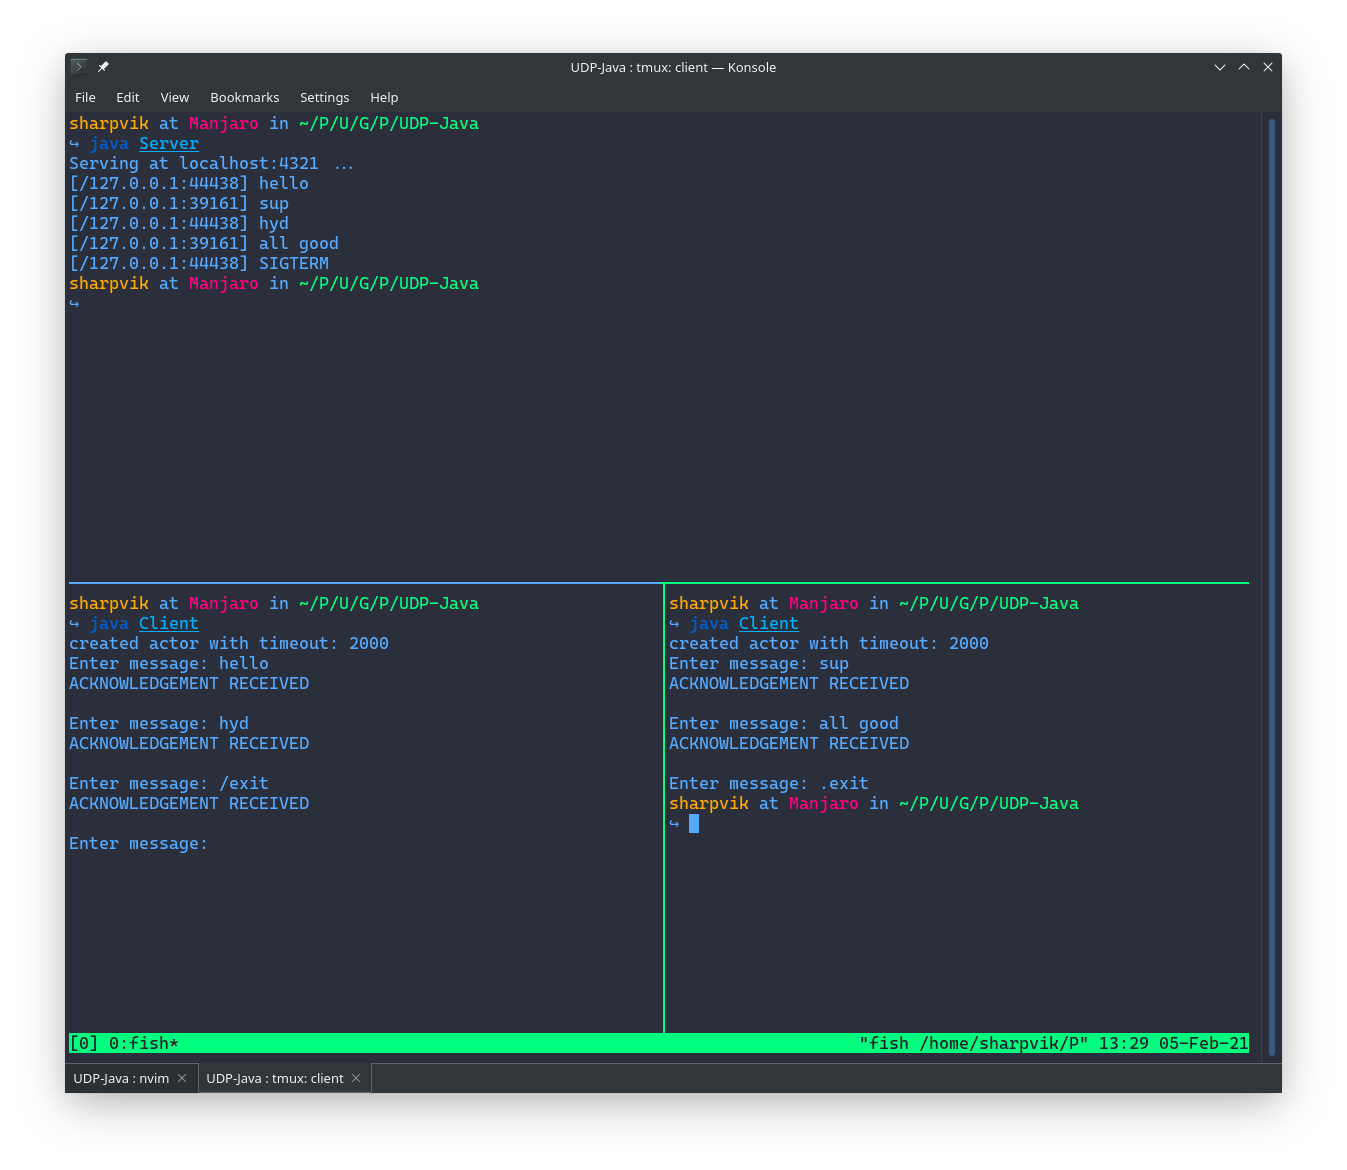
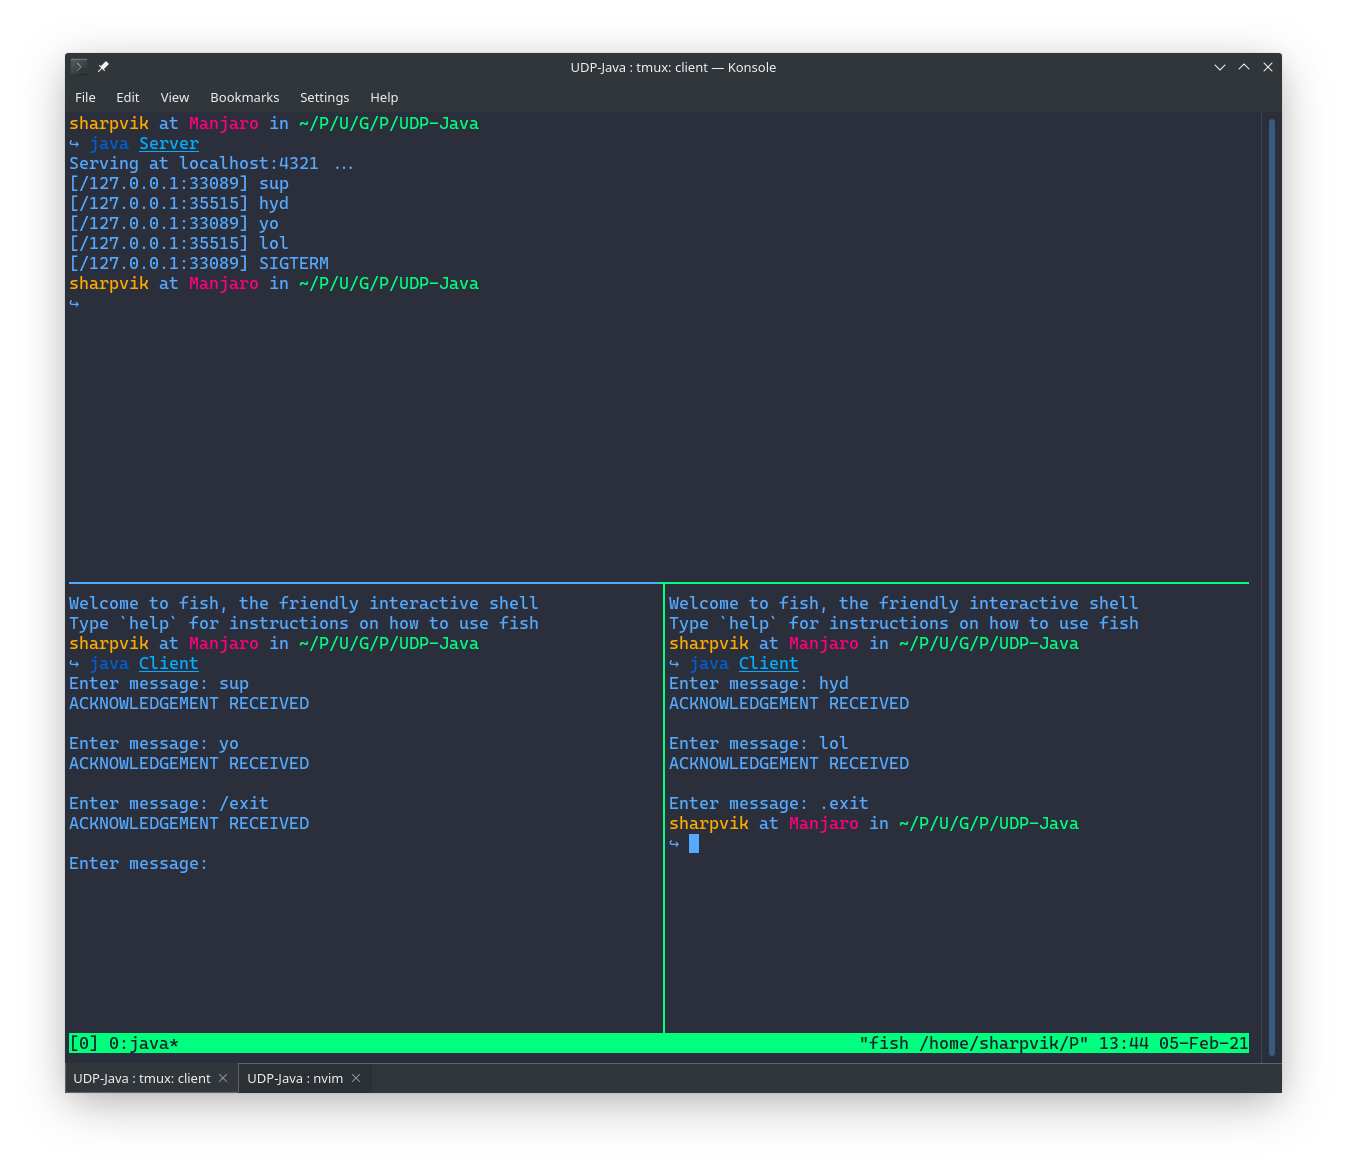
Updated README with image

diff --git a/Practice/UDP-Java/README.md b/Practice/UDP-Java/README.md
@@ -63,3 +63,7 @@ command from any client, the server will shutdown immediately.
 
 Each `Client` also supports the `.exit` command. If you input that command as a
 message, the client is going to shut down.
+
+This is how it looks:
+
+![One server with multiple clients](media/one-server-multiple-clients.png)
